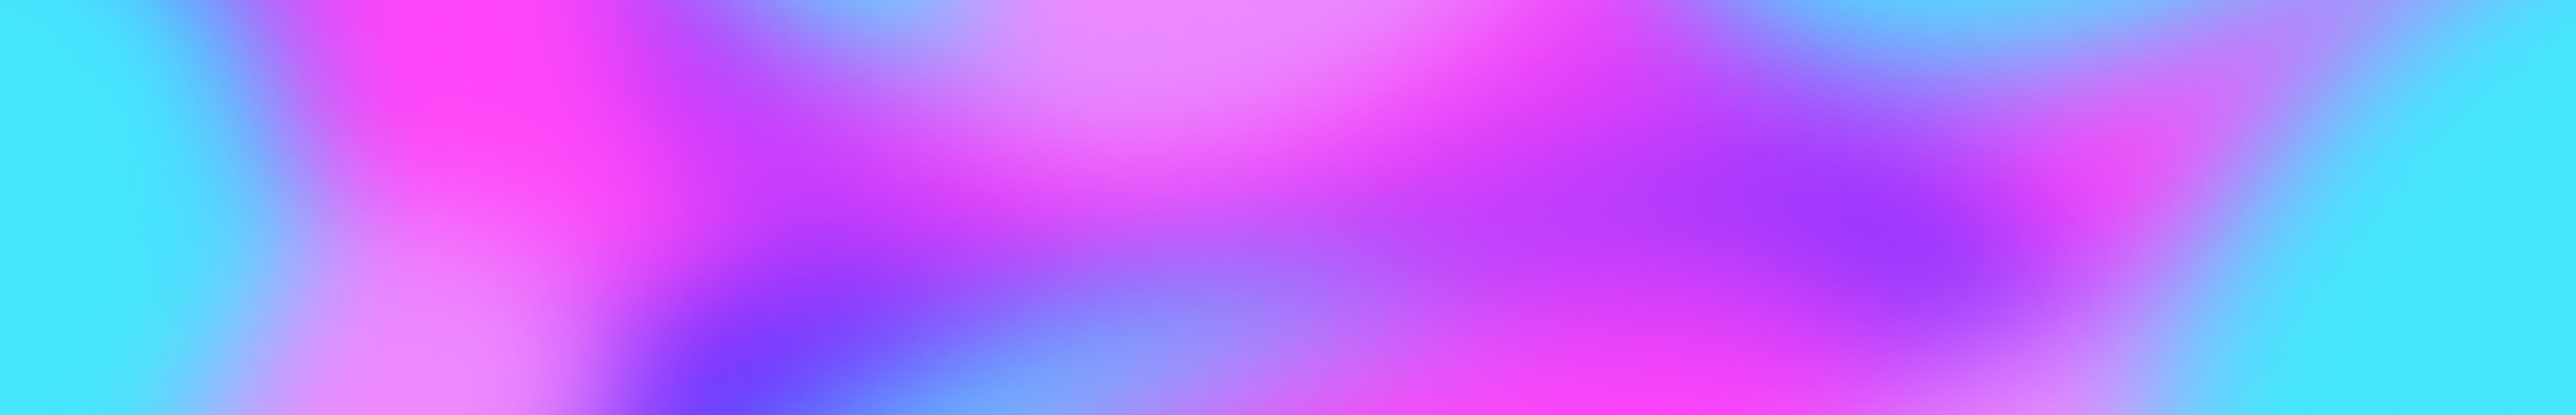
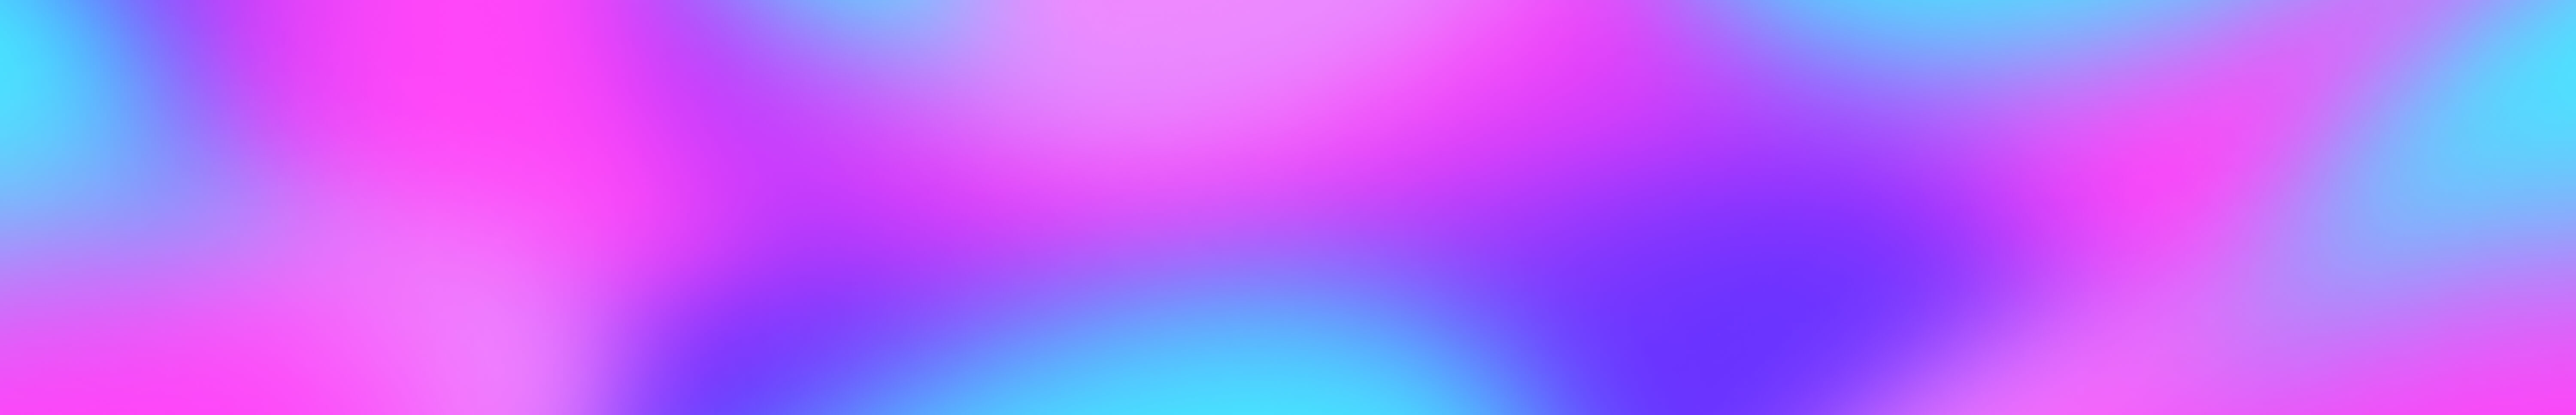
ipad pro redesign

diff --git a/styles/main.css b/styles/main.css
@@ -705,13 +705,31 @@ h1 {
 }
 @media screen and (max-width: 1050px) {
   .about__right {
-    margin: 0;
-    max-width: unset;
+    margin: auto;
+    align-items: center;
+    max-width: 34rem;
+    padding-bottom: 2rem;
+  }
+}
+@media screen and (max-width: 480px) {
+  .about__right {
+    align-items: flex-start;
   }
 }
 
 .h2--about {
   margin-bottom: 1.3rem;
+}
+
+@media screen and (max-width: 1050px) {
+  .h3--about {
+    text-align: center;
+  }
+}
+@media screen and (max-width: 480px) {
+  .h3--about {
+    text-align: start;
+  }
 }
 
 .about__list {
@@ -735,9 +753,19 @@ h1 {
   font-size: 1.3125rem;
   line-height: 1.47em;
 }
+@media screen and (max-width: 1050px) {
+  .about__l-item-count {
+    text-align: center;
+  }
+}
 @media screen and (max-width: 767px) {
   .about__l-item-count {
     margin-bottom: 0.625rem;
+  }
+}
+@media screen and (max-width: 480px) {
+  .about__l-item-count {
+    text-align: start;
   }
 }
 
@@ -748,9 +776,19 @@ h1 {
   color: white;
   letter-spacing: -0.02em;
 }
+@media screen and (max-width: 1050px) {
+  .about__l-item-text {
+    text-align: center;
+  }
+}
 @media screen and (max-width: 767px) {
   .about__l-item-text {
     font-size: 0.875rem;
+  }
+}
+@media screen and (max-width: 480px) {
+  .about__l-item-text {
+    text-align: start;
   }
 }
 
@@ -2199,7 +2237,7 @@ body {
   background-repeat: no-repeat;
   background-image: url("../images/bg-gradient.jpg");
   animation-name: bg-gradient-move;
-  animation-duration: 15s;
+  animation-duration: 20s;
   animation-iteration-count: infinite;
   animation-timing-function: linear;
 }

diff --git a/styles/sass/about.scss b/styles/sass/about.scss
@@ -80,12 +80,25 @@
     // max-width: 18rem;
   }
   @media screen and (max-width: $md) {
-    margin: 0;
-    max-width: unset;
+    margin: auto;
+    align-items: center;
+    max-width: 34rem;
+    padding-bottom: 2rem;
+  }
+  @media screen and (max-width: $xs) {
+    align-items: flex-start;
   }
 }
 .h2--about {
   margin-bottom: 1.3rem;
+}
+.h3--about {
+  @media screen and (max-width: $md) {
+    text-align: center;
+  }
+  @media screen and (max-width: $xs) {
+    text-align: start;
+  }
 }
 .about__list {
   display: grid;
@@ -104,8 +117,14 @@
   letter-spacing: $t-ls-2;
   font-size: 1.3125rem;
   line-height: 1.47em;
+  @media screen and (max-width: $md) {
+    text-align: center;
+  }
   @media screen and (max-width: $sm) {
     margin-bottom: 0.625rem;
+  }
+  @media screen and (max-width: $xs) {
+    text-align: start;
   }
 }
 .about__l-item-text {
@@ -114,7 +133,13 @@
   line-height: 1.6em;
   color: $t-color-100;
   letter-spacing: $t-ls-2;
+  @media screen and (max-width: $md) {
+    text-align: center;
+  }
   @media screen and (max-width: $sm) {
     font-size: 0.875rem;
+  }
+  @media screen and (max-width: $xs) {
+    text-align: start;
   }
 }

diff --git a/index.html b/index.html
@@ -213,7 +213,7 @@
           </div>
           <div class="about__right">
             <h2 class="h2 h2--about">About us</h2>
-            <h3 class="h3">We’re Not a Typical Web Design Company</h3>
+            <h3 class="h3 h3--about">We’re Not a Typical Web Design Company</h3>
             <ul class="about__list">
               <li class="about__l-item">
                 <p class="about__l-item-count">01</p>

diff --git a/styles/sass/main.scss b/styles/sass/main.scss
@@ -233,7 +233,7 @@ body {
   background-image: url("../images/bg-gradient.jpg");
 
   animation-name: bg-gradient-move;
-  animation-duration: 15s;
+  animation-duration: 20s;
   animation-iteration-count: infinite;
   animation-timing-function: linear;
   &::after {
